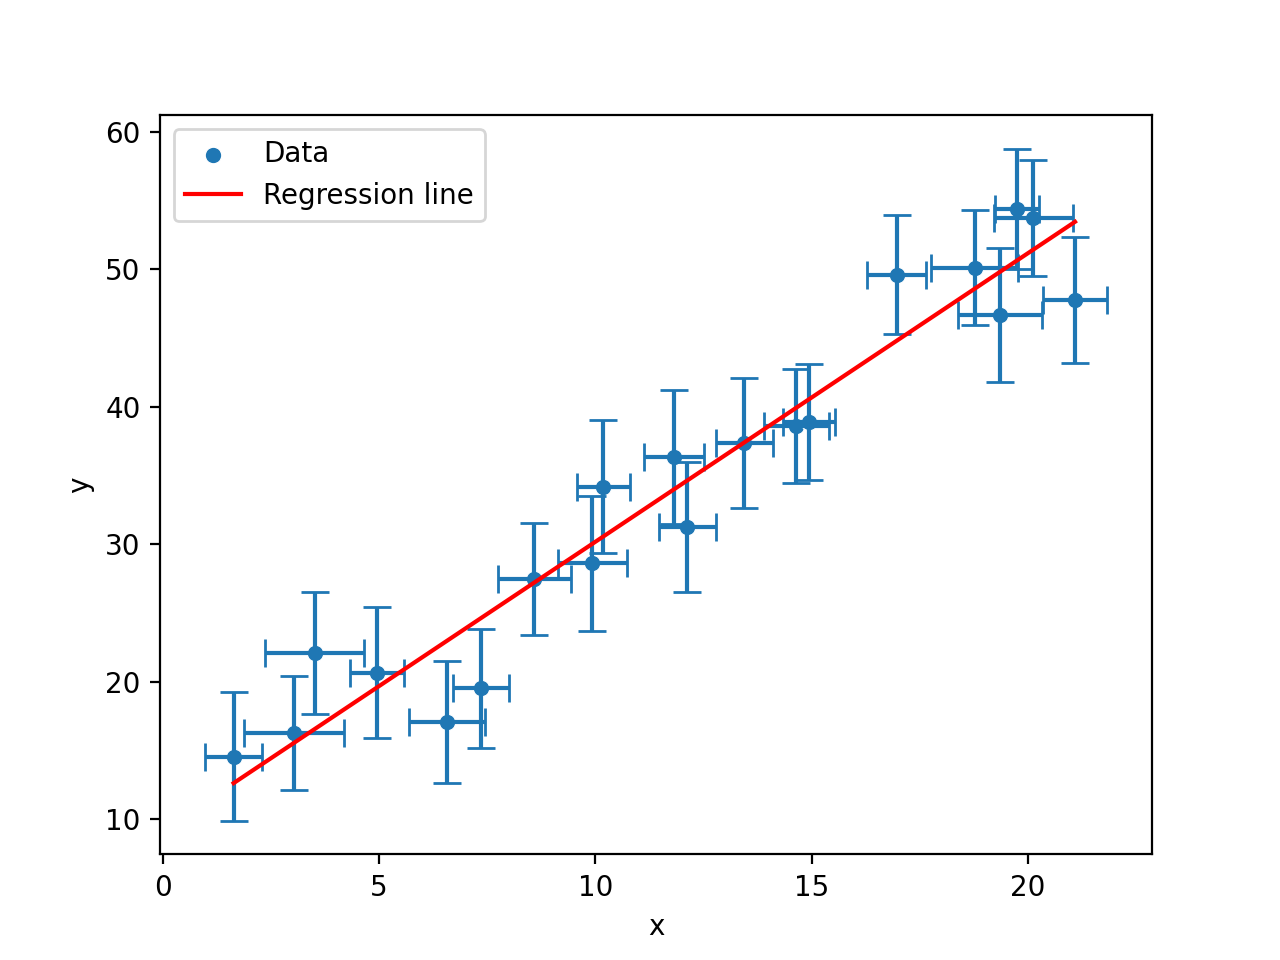
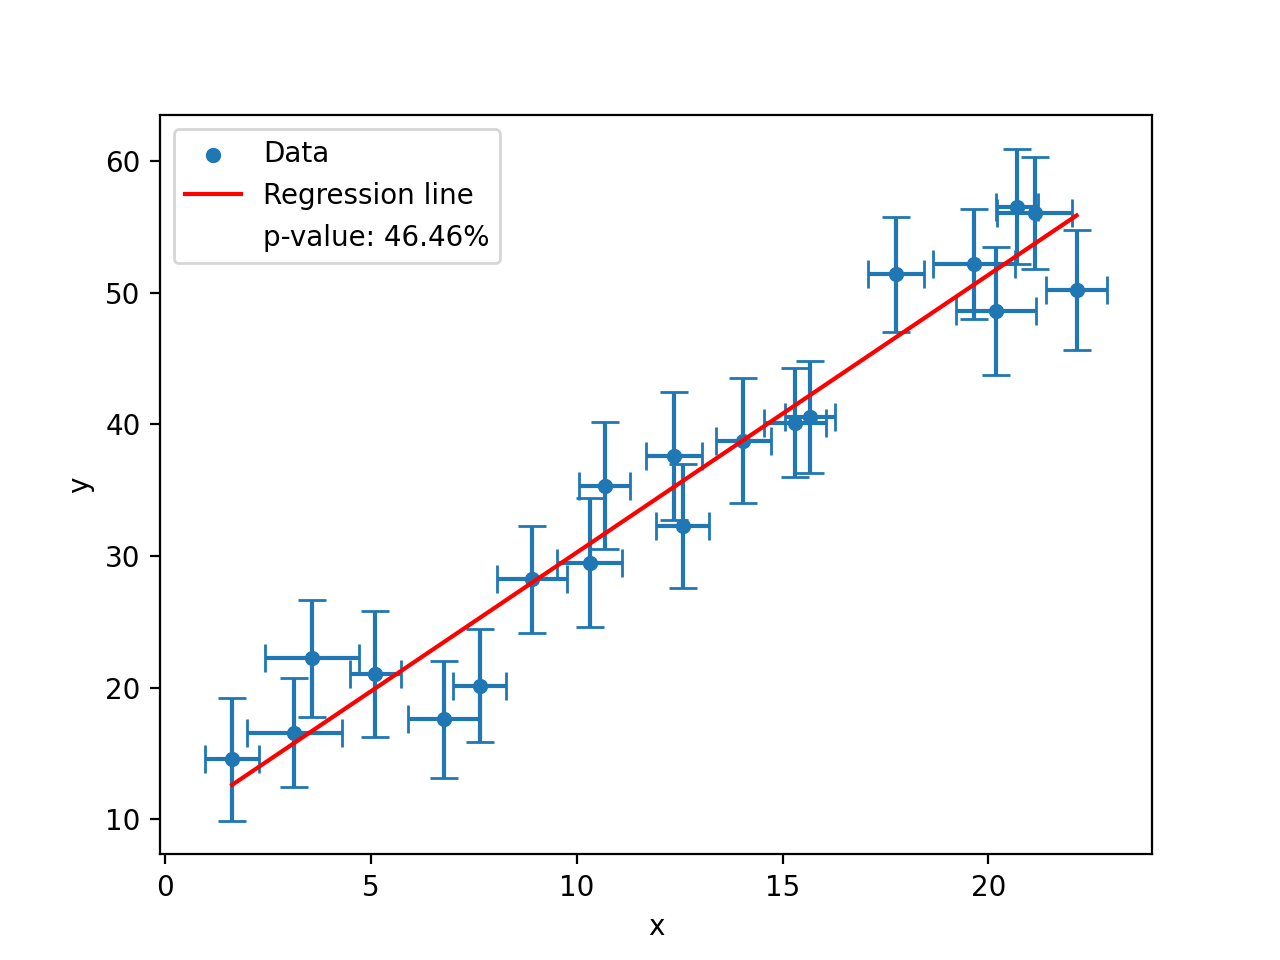
add confidence level

diff --git a/data_fitting.py b/data_fitting.py
@@ -1,40 +1,60 @@
+import numpy as np
 import pandas as pd
 from typing import Callable
 import matplotlib.pyplot as plt
 import seaborn as sns
-from scipy import odr
+from scipy import odr, stats
 
-class Fitter:
+class ODR_fitter:
     def __init__(self, dataframe : pd.DataFrame):
         self.dataframe = dataframe
+        self.dataframe.replace(0, np.nan, inplace = True)
 
-    def linear(self, fnt : Callable):
+    def fit(self, fnt : Callable, inits : list[float]):
+        self.fnt = fnt
         if self.dataframe.empty:
             raise ValueError("Cannot fit empty data!")
-        model = odr.Model(fnt)
+        model = odr.Model(self.fnt)
         data = odr.RealData(x = self.dataframe['x'], y = self.dataframe['y'], sx = self.dataframe['x_err'], sy = self.dataframe['y_err'])
-        ODR_reg = odr.ODR(data, model, beta0 = [1., 0.])
-        self.res = ODR_reg.run()
+        self.odr_reg = odr.ODR(data, model, beta0 = inits)
+        self.res = self.odr_reg.run()
+        res_var = self.odr_reg.output.__getattribute__('res_var')
+        self.p_value = 100*(1 - stats.chi2.cdf(res_var, df = 1))
 
-    def save_plot(self):
+    def save_plot(self, filename : str):
         sns.scatterplot(data = self.dataframe, x= 'x', y = 'y', label = "Data")
-        plt.errorbar(self.dataframe['x'], self.dataframe['y'], 
-                     xerr = self.dataframe['x_err'], yerr = self.dataframe['y_err'], 
+        dataframe = self.dataframe.replace(np.nan, 0)
+        plt.errorbar(dataframe['x'], dataframe['y'], 
+                     xerr = dataframe['x_err'], yerr = dataframe['y_err'], 
                      linestyle = 'None', capsize = 5.0)
-        slope = self.res.beta[0]
-        offset = self.res.beta[1]
-        fitted_fun = lambda x: slope*x + offset
-        x = self.dataframe['x'].iloc[[0, -1]]
+        fitted_fun = lambda x: self.fnt(self.res.beta, x)
+        x_range = dataframe['x'].iloc[[0, -1]].values
+        x = np.linspace(x_range[0], x_range[1], 1000)
         plt.plot(x, fitted_fun(x), color = 'r', label = "Regression line")
+        plt.plot([], [], linestyle = 'None'  ,label = "p-value: %2.2f%%" % self.p_value)
         plt.legend(loc = "upper left")
-        plt.savefig('fitting_plot.png', dpi = 200)
+        plt.savefig(filename, dpi = 200)
+        plt.close()
 
     def print(self):
+        print("===============fitting result:=================")
         self.res.pprint()
+        print("p-value: %.2f%%" % self.p_value)
+        print("===============================================")
 
 if __name__ == "__main__":
     dataframe = pd.read_csv('data.csv')
-    fitter = Fitter(dataframe)
-    fitter.linear(fnt = lambda p,x : p[0]* x + p[1])
-    fitter.print()
-    fitter.save_plot()
+    linear_fitter = ODR_fitter(dataframe)
+    linear_fitter.fit(fnt = lambda p,x : p[0]* x + p[1], inits = [1., 0.])
+    linear_fitter.print()
+    linear_fitter.save_plot('fitting_plot.png')
+
+    dataframe = pd.read_csv('trig_data.csv')
+    trig_fitter = ODR_fitter(dataframe)
+    trig_fitter.fit(fnt = lambda p,x : np.power( p[1]* (np.cos( p[0] * x) + 1), 2), inits = [1, 1])
+    trig_fitter.print()
+    trig_fitter.save_plot('trig_fitting.png')
+
+    trig_fitter.fit(fnt = lambda p,x : p[0]*x*x + p[1], inits = [-1, 1])
+    trig_fitter.print()
+    trig_fitter.save_plot('trig_fitting_quadratic.png')

diff --git a/data_generator.py b/data_generator.py
@@ -1,9 +1,13 @@
 import numpy as np
 import pandas as pd
+import math
 from typing import Callable
 
 def Linear_fun(slope : float, bias: float) -> Callable:
     return lambda x: slope * x + bias
+
+def Trig_fun(power: float, k : float) -> Callable:
+    return lambda x : (math.cos(k * x) + 1) ** power
 
 class Random_Gen:
     def __init__(self, call_back : Callable):
@@ -40,21 +44,35 @@ class Random_Gen:
         errs = np.add(errs, self.yerror_min)
         return errs
 
-    def __call__(self, num : int, min: float, max: float):
-        x_err = self.__generate_xerr(num)
-        y_err = self.__generate_yerr(num)
-        x_mean = np.arange(start = min, stop = max, step = (max-min)/num, dtype = float)
-        y_mean = self.call_back(x_mean)
+    def __call__(self, size : int, x_min: float, x_max: float):
+        x_err = self.__generate_xerr(size)
+        y_err = self.__generate_yerr(size)
+        x_mean = np.linspace(start = x_min, stop = x_max, num = size, dtype = float)
+        y_mean = np.array(list(map(self.call_back, x_mean)))
+
+        if np.any(np.iscomplex(y_mean)):
+            print(y_mean)
+            raise ValueError("Complex error occured!")
+
         x = self.__generate_random(means = x_mean, errs = x_err)
         y = self.__generate_random(means = y_mean, errs = y_err)
         self.dataframe = pd.DataFrame({'x': x, 'x_err': x_err, 'y': y, 'y_err': y_err})
 
-    def SaveToCsv(self, filename : str = "data.csv"):
+    def SaveToCsv(self, filename : str):
         self.dataframe.to_csv(filename, index = False, float_format = '%.3f')
 
 if __name__ == "__main__":
     generator = Random_Gen(Linear_fun(2.3, 5.2))
     generator.set_xerror(min = 0.5, max = 1.2)
     generator.set_yerror(min = 4, max = 5)
-    generator(num = 20, min = 2, max = 23)
-    generator.SaveToCsv()
+    generator(size = 20, x_min = 2, x_max = 23)
+    generator.SaveToCsv("data.csv")
+
+    period = 3.2
+    power = 2
+    trig = Random_Gen(Trig_fun(power = power, k = 2 * math.pi / period))
+    trig.set_xerror(min = 0.005, max = 0.005)
+    trig.set_yerror(min = 0.1, max = 0.1)
+    trig(size = 20, x_min = - period / 2, x_max = period / 2)
+    trig.SaveToCsv("trig_data.csv")
+
